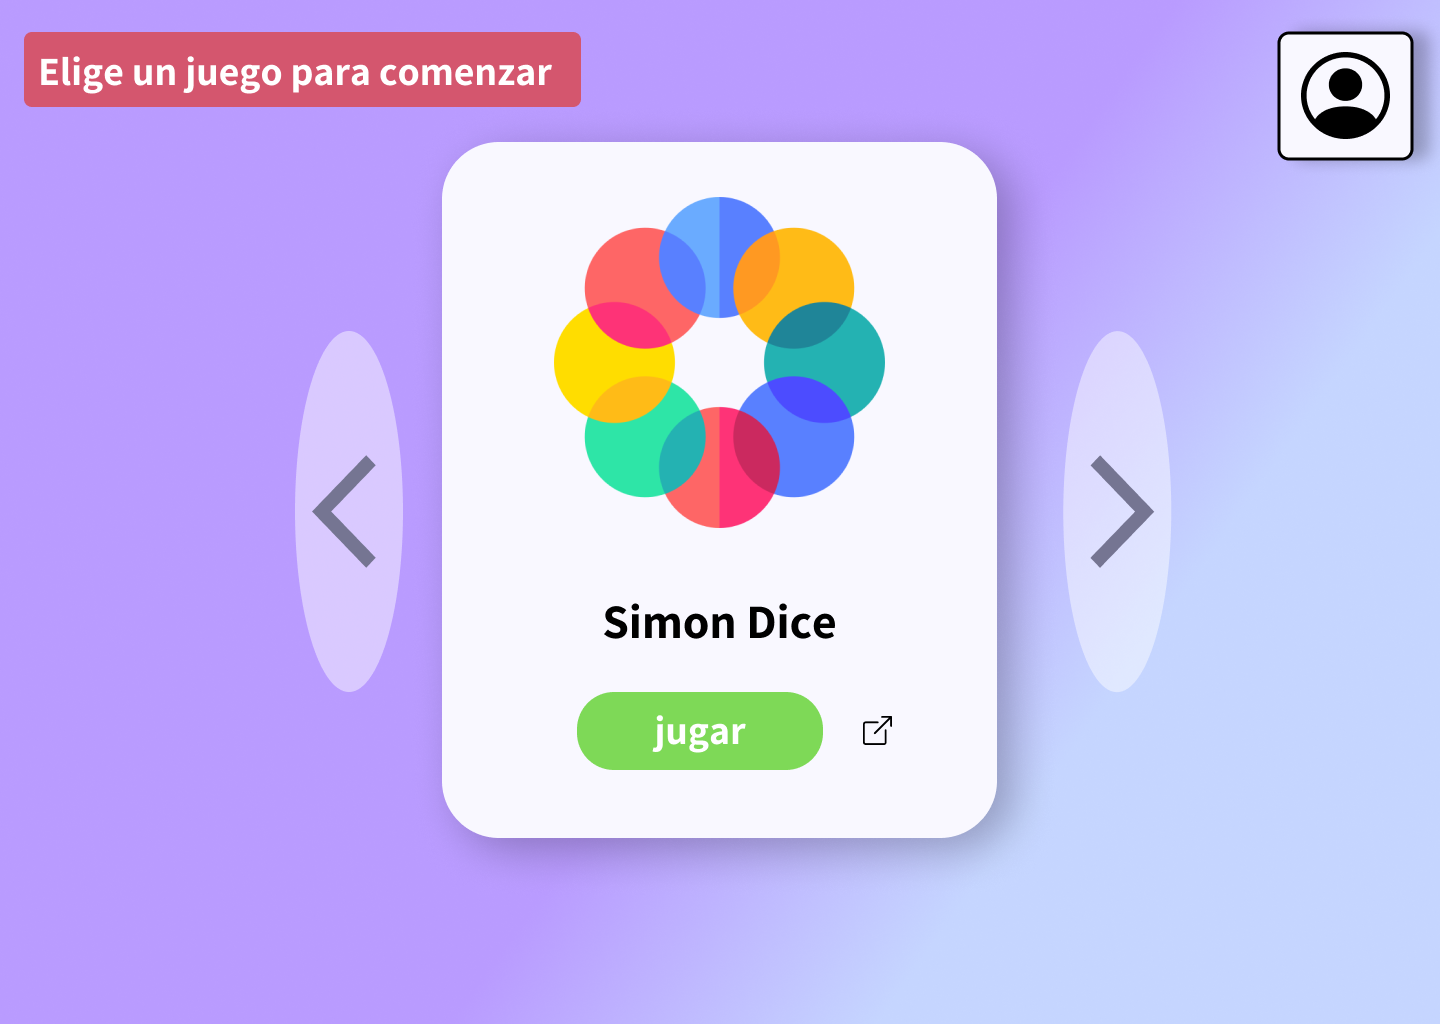
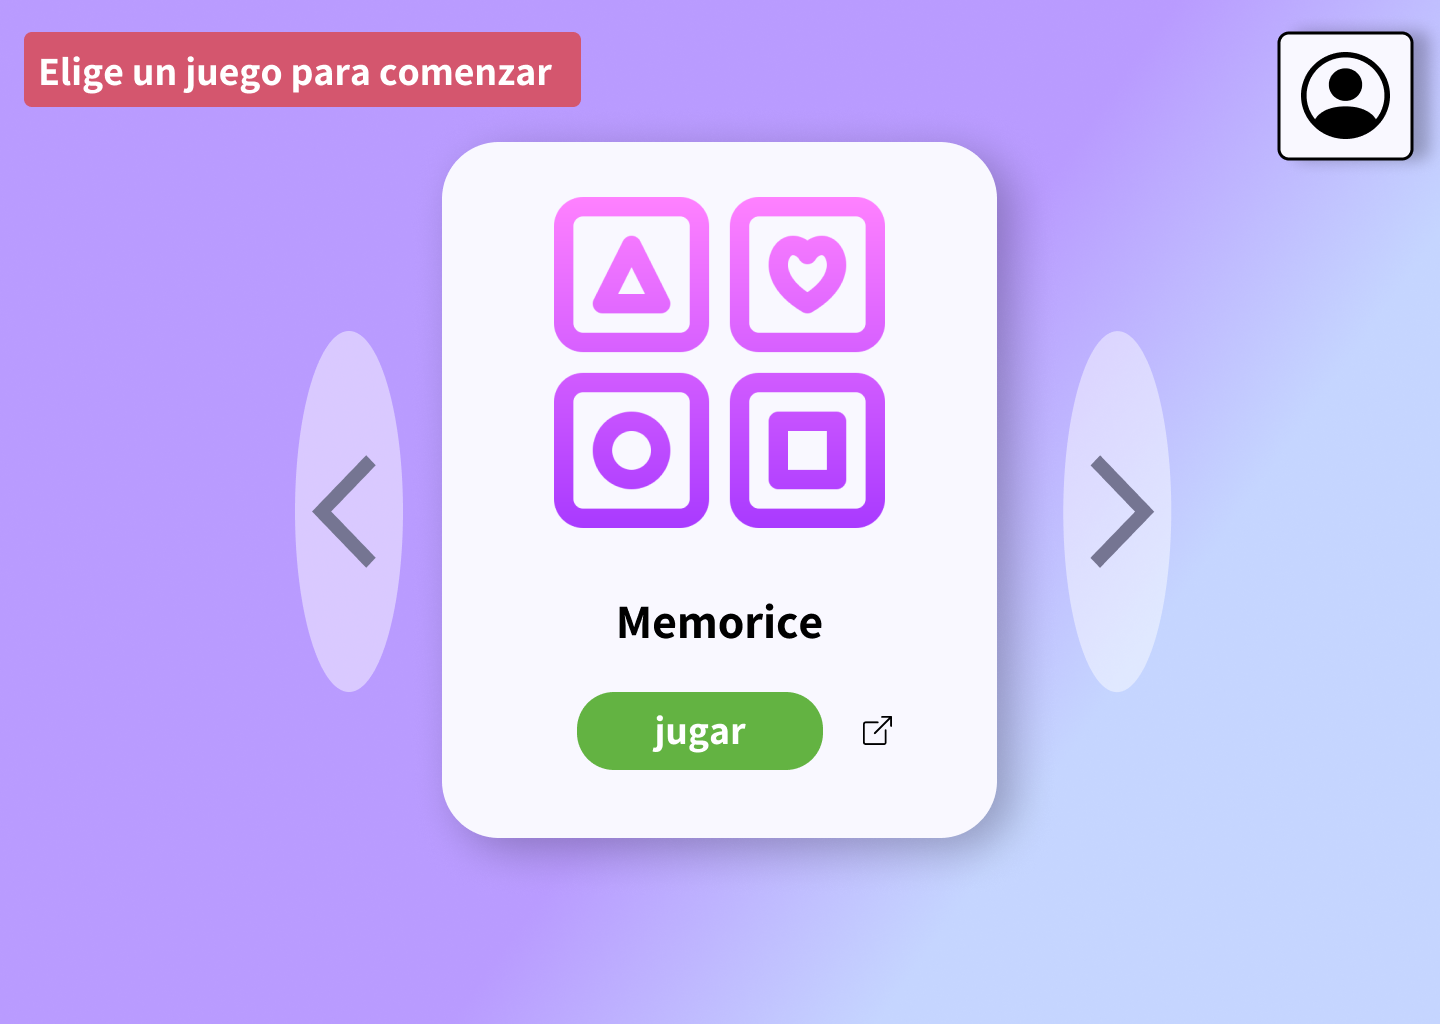
fix: corregido los textos de cards y las imagenes

Changed region(s): [[0.375, 0.1875, 0.625, 0.5312], [0.375, 0.6562, 0.5938, 0.75], [0.4062, 0.5938, 0.5938, 0.625]]

diff --git a/index.html b/index.html
@@ -210,7 +210,7 @@
             </div>
             <div class="proyecto-card">
                 <div class="img-container">
-                    <img src="assets/images/infinityMusic-bot.jpg" alt="Red-social-gamificada" class="card-img">
+                    <img src="./assets/images/redgeon.png" alt="Red-social-gamificada" class="card-img">
                 </div>
                 <div class="card-content">
                     <h4 data-i18n="App_social">Red social gamificada - Full-Stack Mobile</h4>
@@ -303,7 +303,7 @@
                             class="card-img">
                     </div>
                     <div class="card-content">
-                        <h3>THE PARADISE OF THE WHEEL <span>APP</span></h3>
+                        <h3>The Paradise of the Wheel <span>APP</span></h3>
                         <p data-i18n="proy_paradise">The paradise of the wheel es una aplicación movil de viajes para alumnos de la institución.
                         </p>
                         <div class="tag-container">